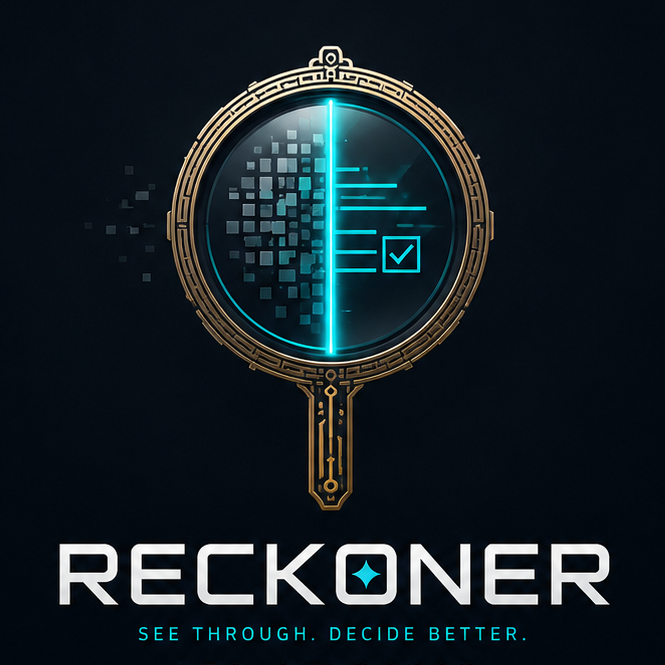
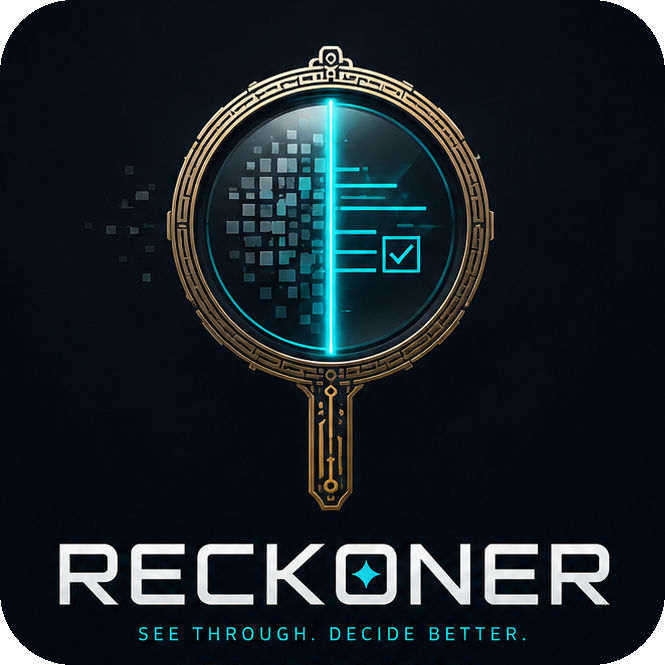
README: 图标切成圆角透明 PNG（GitHub 不渲染 inline style，改为图片本身圆角）

diff --git a/README.md b/README.md
@@ -1,6 +1,6 @@
 <div align="center">
 
-<img src="docs/assets/reckoner-icon.png" alt="Reckoner" width="100" style="border-radius: 22px;">
+<img src="docs/assets/reckoner-icon.png" alt="Reckoner" width="100">
 
 # Reckoner
 
